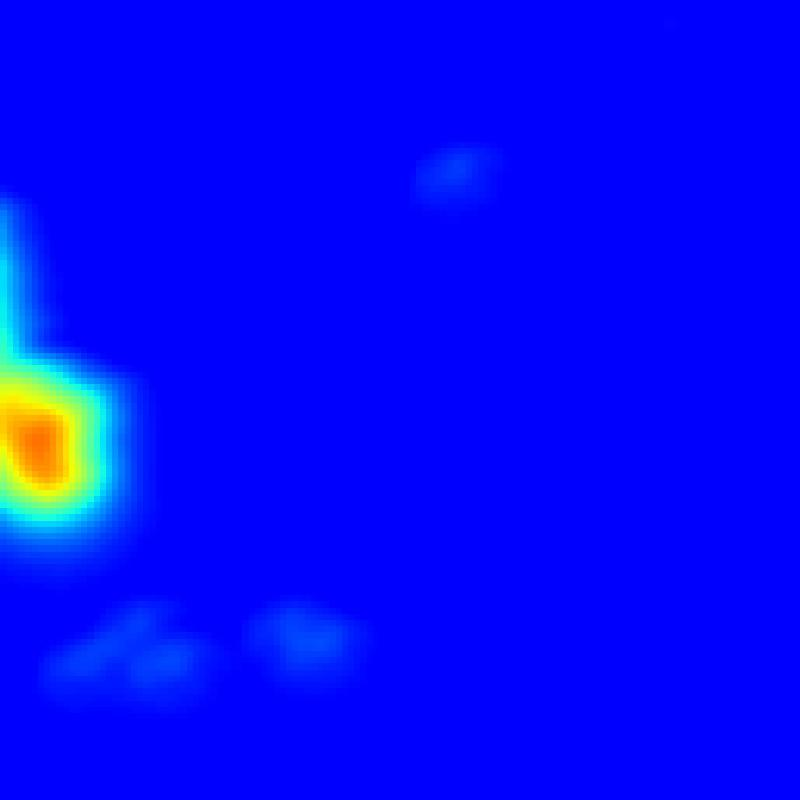
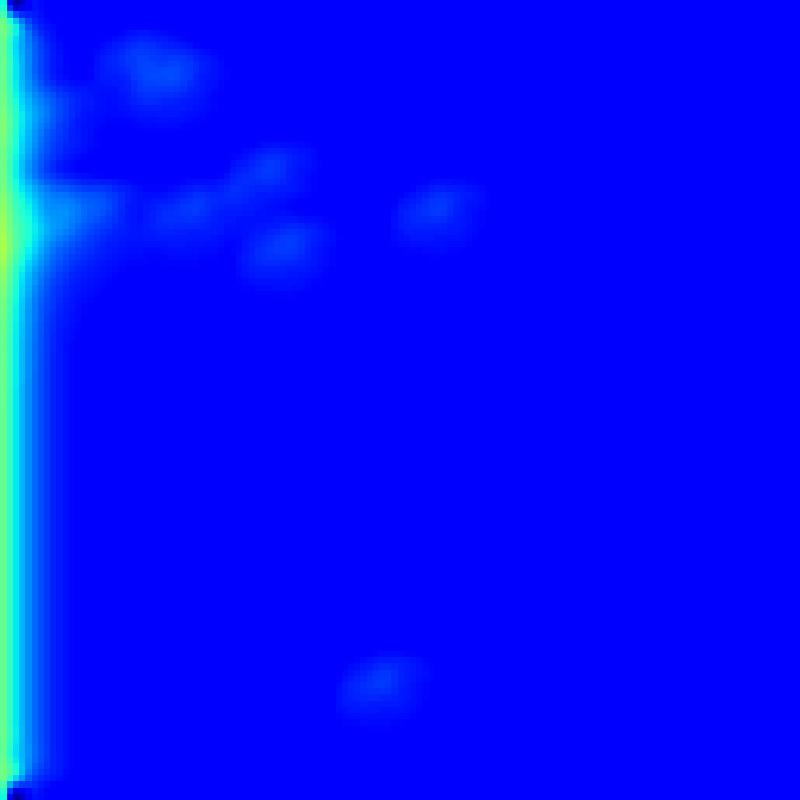
Se eliminan graficos de promedios y tiempos, se almacenan en bases de datos

diff --git a/sensorFlexibleSQLiteDB/interfazTiemposExposicionSensor1.py b/sensorFlexibleSQLiteDB/interfazTiemposExposicionSensor1.py
@@ -26,22 +26,10 @@ class interfazTiemposExposicion:
     def __init__(self):
         self.tiempo = [['00:00:00','00:00:00','00:00:00'],['00:00:00','00:00:00','00:00:00'],['00:00:00','00:00:00','00:00:00']]
         self.zona = 0
-        #plt1.gca().invert_yaxis()
-        axis = plt.gca()
-        axis.get_xaxis().set_visible(False)
-        axis.get_yaxis().set_visible(False)
+
 
         self.cronometro = tiemposDeExposicion.Cronometro()
-        self.fig1 = plt1.figure(figsize=(8,8))
-        self.fig1.canvas.set_window_title('Tiempos sensor 1')
-        self.fig1.set_size_inches(8,8)
-        ax = plt.Axes(self.fig1, [0., 0., 1., 1.])
-        ax.set_axis_off()
-        self.fig1.add_axes(ax)
-
-        self.fig1.canvas.draw()
-        #self.fig1.canvas.toolbar.pack_forget()
-        self.tablaSensor1 = plt1.table(cellText=self.tiempo , colWidths = [0.2]*3, cellLoc = 'center', rowLoc = 'center', bbox=[0,0,1,1])
+        
 
 ##        self.cronometro = tiemposDeExposicion.Cronometro()
 ##        self.fig2 = plt1.figure(figsize = (4,4))
@@ -113,7 +101,6 @@ class interfazTiemposExposicion:
                             
                 #self.zonasActivas = zonasActivas
                 self.determineAreasOfGreaterPressure(matrizDistribucionPresion)
-                #self.dibujaMatriz()
                 tiemposString = str(self.tiempo[0][0]) + "," + str(self.tiempo[0][1]) + "," + str(self.tiempo[0][2]) + "," + str(self.tiempo[1][0]) + "," + str(self.tiempo[1][1]) + "," + str(self.tiempo[1][2]) + "," + str(self.tiempo[2][0]) + "," + str(self.tiempo[2][1]) + "," + str(self.tiempo[2][2])
                 print("inserta datos")
                 self.cTiempos.execute("UPDATE `tiemposExposicion` SET `exposureTimes`= '%s' WHERE `id`='%s'" % (tiemposString, idSensor))
@@ -123,71 +110,6 @@ class interfazTiemposExposicion:
             except:
                 pass
 
-
-    def dibujaMatriz(self):
-        global pressureRegion
-        #figure(2)
- #       the_table = plt1.table(cellText=tiempo , colWidths = [0.2]*3, cellLoc = 'center', rowLoc = 'center', bbox=[0,0,1,1])
-        #self.tablaSensor1.cell.set_text_props(tiempo)
-        axis = plt1.gca()
-        axis.get_xaxis().set_visible(False)
-        axis.get_yaxis().set_visible(False)
-        
-        for j in range(0,3):
-            for i in range(0,3):
-                
-                self.tablaSensor1.get_celld()[i,j].set_fontsize(40)
-
-                # Se hace espejo con respecto a la diagonal principal
-                
-                if i == j:
-                    cell = self.tablaSensor1.get_celld()[i,j]
-                else:
-                    cell = self.tablaSensor1.get_celld()[j,i]
-                #invertedMatrix = self.matrixTransformations(self.tiempo)
-
-
-                #activeZones = self.matrixTransformationsActiveZones(self.zonasActivas)
-
-                cell.set_text_props(text = '0' + str(self.tiempo[i][j]))
-                
-                try:
-                    tiempo = self.tiempo[i][j]
-                    if int(tiempo.total_seconds()) > 0 and int(tiempo.total_seconds()) < 10 :
-                        cell._text.set_color('black')
-
-                    if int(tiempo.total_seconds()) > 100:
-                        
-                        if self.zonasActivas[i][j] == True:
-                            #cell.set_color('r')
-                            pass
-                            #cell._text.set_color('white')
-                            #if self.pressureRegion == False:
-                             #   cell.set_color('r')
-                            #else:
-                             #   cell.set_color('w')
-                        #else:
-                         #   cell.set_color('w')
-                except:
-                    pass
-                if self.zonasActivas[i][j] == False:
-                    cell.set_color('w')
-                    cell._text.set_color('white')
-                cell.set_edgecolor('k')
-
-        
-        self.fig1.savefig('../appSensorFlexibleWebLocalMatplotlib/img/tablaTiemposExposicionSensor' + idSensor + '.png')
-        #figure(2).tight_layout()                
-        #figure(2).canvas.draw()
-        #plt1.cla()
-        #plt1.clf()
-        
-        #if self.pressureRegion == False:
-         #   self.pressureRegion = True
-        #else:
-         #   self.pressureRegion = False            
-
-    # Funcion para hacer espejo sobre la diagonal principal
 
     def matrixTransformations(self, matrix):
         transformationMatrix = np.array([['00:00:00','00:00:00','00:00:00'],['00:00:00','00:00:00','00:00:00'],['00:00:00','00:00:00','00:00:00']])

diff --git a/sensorFlexibleSQLiteDB/graphicsRealTimeAverageSensor_1.py b/sensorFlexibleSQLiteDB/graphicsRealTimeAverageSensor_1.py
@@ -1,33 +1,17 @@
-import matplotlib
-matplotlib.use('TKAgg')
-import matplotlib.pyplot as plt
 import numpy as np
 #from matplotlib.backends.backend_tkagg import FigureCanvasTkAgg, NavigationToolbar2TkAgg
 # implement the default mpl key bindings
 import threading
 import socket
 import time
-from matplotlib.figure import Figure
 import random
 import sqlite3
 import ast
 import scipy.ndimage
 from PIL import Image
 
-plt.ion()
-
 class Ui_MainWindow(object):
     def __init__(self):
-
-        self.fig, self.ax = plt.subplots(figsize=(24,8))
-        self.fig.set_size_inches(24,8)
-
-        ax = plt.Axes(self.fig, [0., 0., 1., 1.])
-        ax.set_axis_off()
-        self.fig.add_axes(ax)
-        
-        self.ax.set_xticklabels([])
-        self.labels = []
 
         self.campoPromediosCreado = False
 
@@ -99,9 +83,7 @@ class Ui_MainWindow(object):
 
         # Zona de presion 9
         self.p9_1 = []
-
-        self.ax.set_xticklabels([])
-        self.labels = []    
+   
 
 
     def AveragePerRow(self):
@@ -152,11 +134,11 @@ class Ui_MainWindow(object):
                 
         # Saca promedios por zonas asumiendo que el maximo de ADC puede ser cercano a 150 
         maximoPromedio = 80              
-        averageColumn_Zona1 = (averageColumn_Zona1/602)*(80.0/maximoPromedio)  + 500
+        averageColumn_Zona1 = (averageColumn_Zona1/602)*(80.0/maximoPromedio)  + 505
         averageColumn_Zona2 = (averageColumn_Zona2/602)*(80.0/maximoPromedio)  + 400
         averageColumn_Zona3 = (averageColumn_Zona3/602)*(80.0/maximoPromedio)  + 300
-        averageColumn_Zona4 = (averageColumn_Zona4/602)*(80.0/maximoPromedio)  + 200
-        averageColumn_Zona5 = (averageColumn_Zona5/602)*(80.0/maximoPromedio)  + 100
+        averageColumn_Zona4 = (averageColumn_Zona4/602)*(80.0/maximoPromedio)  + 180
+        averageColumn_Zona5 = (averageColumn_Zona5/602)*(80.0/maximoPromedio)  + 70
         averageColumn_Zona6 = (averageColumn_Zona6/602)*(80.0/maximoPromedio)
 
         #print("datos:", averageColumn_Zona1, averageColumn_Zona2, averageColumn_Zona3, averageColumn_Zona4, averageColumn_Zona5, averageColumn_Zona6)
@@ -205,53 +187,11 @@ class Ui_MainWindow(object):
         self.cPromedios.execute("UPDATE `promediosPresionZonas` SET `pressureAverageValue`= '%s' WHERE `zoneID`=6" % zona6STR)
         self.connPromedios.commit()
 
-        self.realTimeGraphs()
-
-
-    def realTimeGraphs(self):
-        hourData = time.strftime("%H:%M")
-        #print(hourData)
-        self.contadorY = self.contadorY + 1
-
-        plt.cla()
-        plt.grid(True)
-        plt.ylim([0,600])
-        plt.xlim([0,30])
-
-        # major ticks every 20, minor ticks every 5                                      
-        major_ticks_x = np.arange(0, 30, 1)                                              
-        minor_ticks_x = np.arange(0, 30, 0.1)
-
-        self.ax.tick_params(axis='x', colors='white')
-        self.ax.tick_params(axis='y', colors='white')
-        
-        self.ax.yaxis.label.set_color('white')
-        self.ax.xaxis.label.set_color('white')
-        
-        self.ax.set_xticks(major_ticks_x)                                                       
-        self.ax.set_xticks(minor_ticks_x, minor=True)  
-
-        for tick in self.ax.xaxis.get_major_ticks():
-            tick.label.set_fontsize(8)  
-        # red dashes, blue squares and green triangles
-        
-        self.labels.append(hourData)
-        self.labels[self.contadorY - 1] = hourData
-        self.ax.set_xticklabels(self.labels, rotation=70)
-        plt.plot(self.x, self.p1_1, 'b-',
-                 self.x, self.p2_1, 'k-',
-                 self.x, self.p3_1, 'b-',
-                 self.x, self.p4_1, 'k-',
-                 self.x, self.p5_1, 'b-',
-                 self.x, self.p6_1, 'k-', marker='o', markersize=3, linewidth=0.8)
-        #self.fig.canvas.draw()
-        #plt.savefig('GraficoPresion1.png',facecolor='#222222', edgecolor='none')
-        time.sleep(0.2)
-        print("graficos presion")
+        self.refreshPatientHistory()
         if(len(self.x)==60):
             self.variablesReset()
-            
-        self.refreshPatientHistory()
+
+
     def refreshPatientHistory(self):
         
         if len(self.x)<5:

diff --git a/sensorFlexibleSQLiteDB/plotSensores.py b/sensorFlexibleSQLiteDB/plotSensores.py
@@ -20,7 +20,7 @@ from multiprocessing import Process
 import threading
 import scipy.ndimage
 import sys, struct
-import tiemposDeExposicion
+#import tiemposDeExposicion
 #import interfazTiemposExposicionSensor1
 from pylab import *
 #import pusher
@@ -54,8 +54,8 @@ class Ui_MainWindow(object):
         matrizCompleta[0][0] = 255
 
         self.initData = scipy.ndimage.zoom(matrizCompleta, 3)
-        self.figSensor1 = plt.figure(figsize=(16,8),frameon=False)
-        self.figSensor1.set_size_inches(16,8)
+        self.figSensor1 = plt.figure(figsize=(8,4),frameon=False)
+        self.figSensor1.set_size_inches(8,4)
         ax = plt.Axes(self.figSensor1, [0., 0., 1., 1.])
         ax.set_axis_off()
         self.figSensor1.add_axes(ax)
@@ -69,7 +69,7 @@ class Ui_MainWindow(object):
         self.vectorDatosDistribucionPresion = []
         self.vectorDesencriptado = []
         #self.vectorImagen = [255,0,45,2,0,184,3,0,107,3,0,117,2,0,112,5,0,18,7,0,7,6,0,1,12,14,2,0,3,4,0,1,2,0,9,2,0,7,9,9,47,45,26,7,0,24,10,11,15,3,0,25,7,7,14,0,62,14,0,19,3,7,6,0,7,5,0,17,10,47,54,32,0,24,5,11,49,51,0,26,5,2,0,40,255]
-        self.cronometro = tiemposDeExposicion.Cronometro()
+        #self.cronometro = tiemposDeExposicion.Cronometro()
         #self.interfazTiempos = interfazTiemposExposicionSensor1.interfazTiemposExposicion()
         self.iniciaTramaDeDatos = False
 
@@ -137,28 +137,8 @@ class Ui_MainWindow(object):
 
             self.figSensor1.canvas.draw()
             quality_val = 20
-            self.figSensor1.savefig('../appSensorFlexibleWebLocalMatplotlib/img/sensor1.jpg')
-            sensorCompleto = Image.open("../appSensorFlexibleWebLocalMatplotlib/img/sensor1.jpg")
+            self.figSensor1.savefig('../appSensorFlexibleWebLocalMatplotlib/img/sensor1.jpeg')
 
-            width, height = sensorCompleto.size   # Get dimensions
-
-            left = 0
-            top = 0
-            right = width/2
-            bottom = height
-
-            left1 = width/2
-            top1 = 0
-            right1 = width
-            bottom1 = height
-
-            crop = sensorCompleto.crop((left, top, right, bottom))
-            crop.save("../appSensorFlexibleWebLocalMatplotlib/img/sensor1SinTiempos.jpeg","jpeg")
-
-            crop1 = sensorCompleto.crop((left1, top1, right1, bottom1))
-            crop1.save("../appSensorFlexibleWebLocalMatplotlib/img/sensor2SinTiempos.jpeg","jpeg")
-            print('plot images')
-            #sensorCompleto.save('/Applications/XAMPP/xamppfiles/htdocs/apps_rigido_flexible1/appSensorFlexibleWebLocalMatplotlib/img/sensor1.jpg')
         except:
             pass
 

diff --git a/sensorFlexibleSQLiteDB/recvSensor1.py b/sensorFlexibleSQLiteDB/recvSensor1.py
@@ -138,7 +138,7 @@ class Ui_MainWindow(object):
 
                 buf = self.s.recv(10000)
          #       self.sc.settimeout(0)
-                print(time.strftime("%H:%M:%S"))
+                print(buf)
                 #print(len(buf))
                 if len(buf)<10000:
                 
